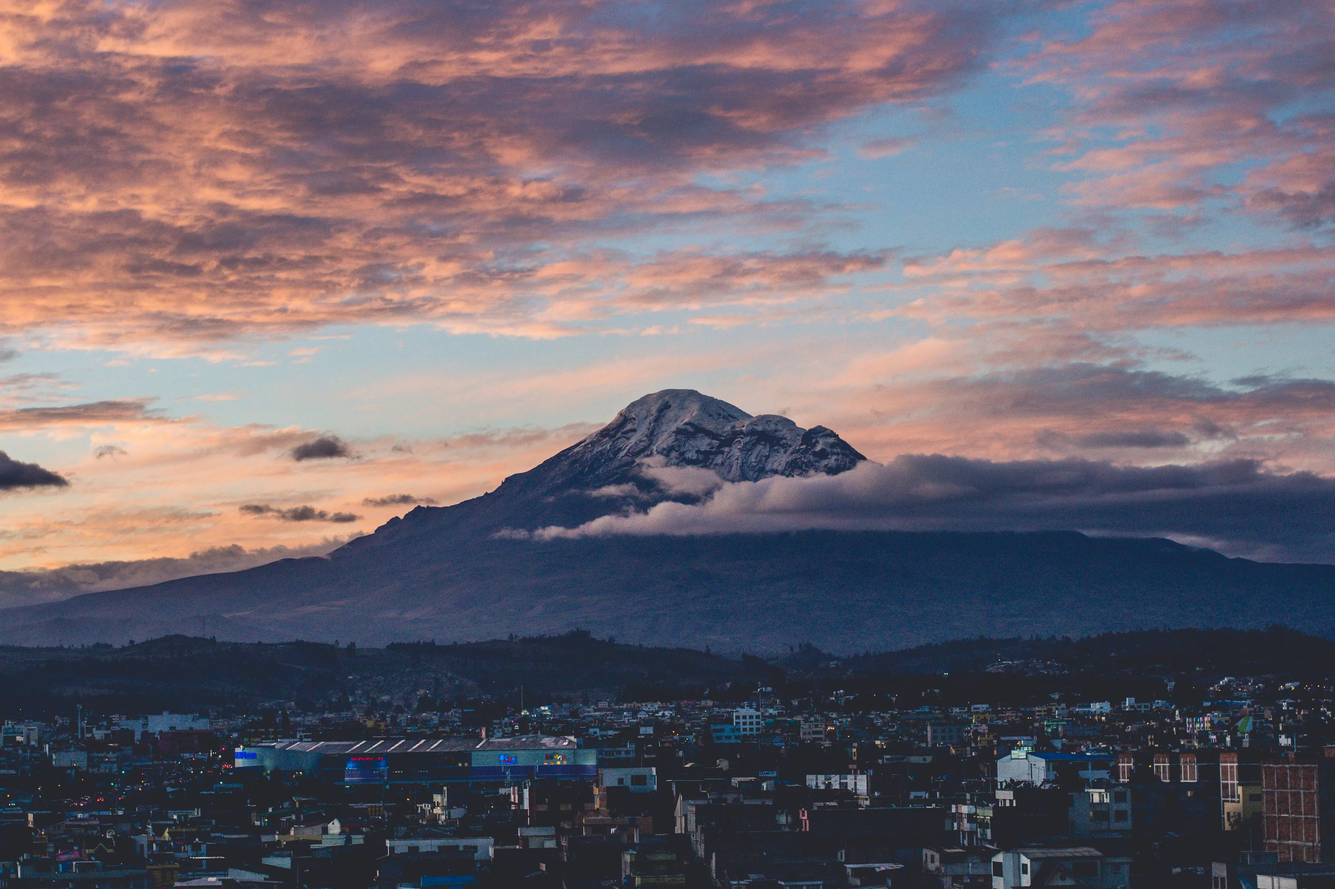
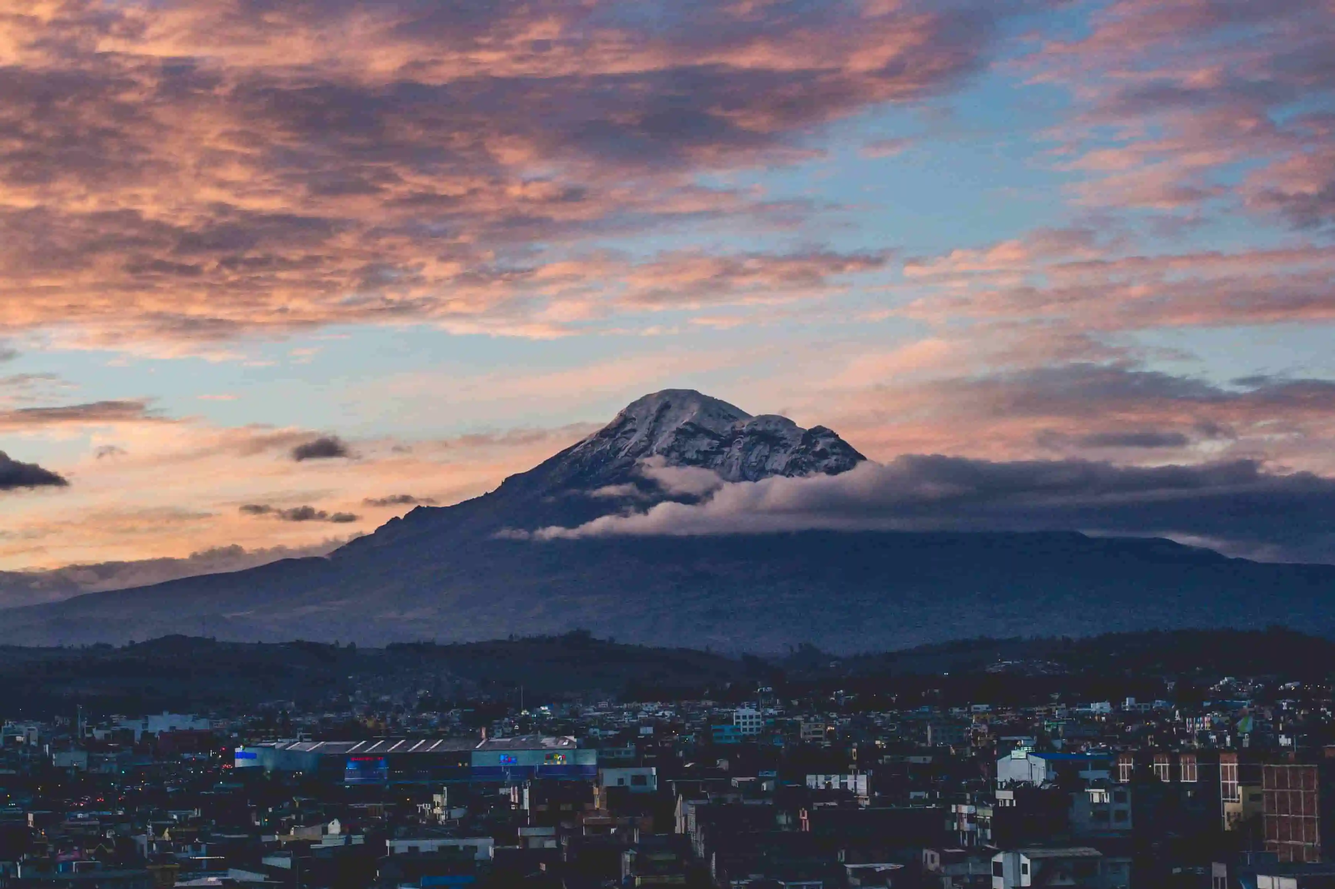
place02

diff --git a/place.html b/place.html
@@ -1,81 +1,353 @@
 <!DOCTYPE html>
 <html lang="en">
+
 <head>
   <meta charset="UTF-8">
   <meta name="viewport" content="width=device-width, initial-scale=1.0">
-  <title>Ecuador - Place</title>
-  <meta name="description" content="A responsive page about Ecuador including location information and weather.">
+
+  <title>Ecuador – WDD 131 – Gabriel Alexander Silva Enriquez</title>
+
+  <meta name="description" content="A profile page about Ecuador for WDD 131 – Dynamic Web Fundamentals, by Gabriel Alexander Silva Enriquez. Includes country data and static weather information with a JavaScript-calculated wind chill.">
+
   <meta name="author" content="Gabriel Alexander Silva Enriquez">
 
-  <link rel="stylesheet" href="styles/place.css">
+  <link rel="preconnect" href="https://fonts.googleapis.com">
+  <link rel="preconnect" href="https://fonts.gstatic.com" crossorigin>
 
-  <script src="scripts/place.js" defer></script>
+  <link href="https://fonts.googleapis.com/css2?family=Playfair+Display:wght@700;800&family=Work+Sans:wght@400;600&display=swap" rel="stylesheet">
+
+  <style>
+    :root {
+      --primary-color: #003893;
+      --secondary-color: #f9d616;
+      --accent-color: #ce1126;
+      --background-color: #ffffff;
+      --card-background: rgba(255, 255, 255, 0.95);
+      --text-color: #222222;
+    }
+
+    * {
+      box-sizing: border-box;
+    }
+
+    body {
+      margin: 0;
+      font-family: "Work Sans", sans-serif;
+      color: var(--text-color);
+      background-color: var(--background-color);
+    }
+
+    .place-header {
+      background-color: var(--primary-color);
+      color: white;
+      text-align: center;
+      padding: 1rem;
+    }
+
+    .place-header h1 {
+      margin: 0;
+      font-family: "Playfair Display", serif;
+      font-size: 2rem;
+    }
+
+    .flag-stripe {
+      height: 8px;
+      background: linear-gradient(
+        to bottom,
+        var(--secondary-color) 0 50%,
+        var(--accent-color) 50% 100%
+      );
+    }
+
+    main {
+      max-width: 1200px;
+      margin: 0 auto;
+    }
+
+    .hero-wrap {
+      position: relative;
+    }
+
+    .hero-image {
+      display: block;
+      width: 100%;
+      height: auto;
+    }
+
+    .card {
+      margin: 1rem;
+      padding: 1rem;
+      background-color: var(--card-background);
+      border: 1px solid #ddd;
+      border-radius: 8px;
+    }
+
+    .card h2 {
+      margin-top: 0;
+      padding: 0.7rem;
+      background-color: var(--primary-color);
+      color: white;
+      text-align: center;
+      font-family: "Playfair Display", serif;
+    }
+
+    dl {
+      margin: 0;
+    }
+
+    dl div {
+      display: grid;
+      grid-template-columns: 1fr 1fr;
+      margin: 0.5rem 0;
+    }
+
+    dt {
+      font-weight: 600;
+      text-align: right;
+      padding-right: 1rem;
+    }
+
+    dd {
+      margin: 0;
+    }
+
+    .weather-icon-mobile {
+      display: block;
+      width: 60px;
+      height: 60px;
+      margin: 1rem auto;
+    }
+
+    footer {
+      background-color: var(--primary-color);
+      color: white;
+      text-align: center;
+      padding: 1rem;
+      margin-top: 1rem;
+    }
+
+    footer p {
+      margin: 0.5rem;
+    }
+
+    /* Large screen layout */
+    @media screen and (min-width: 700px) {
+
+      .place-header h1 {
+        font-size: 3rem;
+      }
+
+      .hero-image {
+        min-height: 650px;
+        object-fit: cover;
+      }
+
+      .data-card,
+      .weather-card {
+        position: absolute;
+        width: 300px;
+        margin: 0;
+        background-color: rgba(255, 255, 255, 0.92);
+        box-shadow: 0 3px 10px rgba(0, 0, 0, 0.25);
+      }
+
+      .data-card {
+        top: 3rem;
+        left: 2rem;
+      }
+
+      .weather-card {
+        bottom: 3rem;
+        right: 2rem;
+      }
+
+      .weather-icon-mobile {
+        display: none;
+      }
+
+      .weather-card h2::after {
+        content: " ⛅";
+        margin-left: 0.5rem;
+      }
+    }
+
+    /* Small screen layout */
+    @media screen and (max-width: 699px) {
+
+      .hero-image {
+        width: 100%;
+        height: auto;
+      }
+
+      .data-card,
+      .weather-card {
+        position: static;
+      }
+    }
+  </style>
+
+  <script defer>
+    // Static weather values for this assignment.
+    const temperature = 10;
+    const windSpeed = 5;
+
+    // Calculate wind chill using the Celsius formula.
+    function calculateWindChill(temperature, windSpeed) {
+      return 13.12 + 0.6215 * temperature - 11.37 * Math.pow(windSpeed, 0.16) + 0.3965 * temperature * Math.pow(windSpeed, 0.16);
+    }
+
+    // Display wind chill only when the conditions are valid.
+    const windChillElement = document.getElementById("wind-chill");
+
+    if (temperature <= 10 && windSpeed > 4.8) {
+      windChillElement.textContent =
+        calculateWindChill(temperature, windSpeed).toFixed(1) + " °C";
+    } else {
+      windChillElement.textContent = "N/A";
+    }
+
+    // Display the current year.
+    const currentYear = document.getElementById("currentyear");
+    currentYear.textContent = new Date().getFullYear();
+
+    // Display the document's last modified date.
+    const lastModified = document.getElementById("lastModified");
+    lastModified.textContent = "Last Modified: " + document.lastModified;
+  </script>
+
 </head>
 
 <body>
 
-  <header>
+  <header class="place-header">
     <h1>Ecuador</h1>
   </header>
 
+  <div class="flag-stripe" aria-hidden="true"></div>
+
   <main>
 
-    <picture class="hero">
-      <source media="(max-width: 600px)" srcset="images/ecuador-small.webp">
-      <source media="(max-width: 1000px)" srcset="images/ecuador-medium.webp">
+    <div class="hero-wrap">
 
-      <img
-        src="images/ecuador-large.webp"
-        srcset="images/ecuador-small.webp 600w,
-                images/ecuador-medium.webp 1000w,
-                images/ecuador-large.webp 1600w"
-        sizes="100vw"
-        alt="Landscape of Ecuador">
-    </picture>
+      <picture>
+        <source
+          media="(max-width: 699px)"
+          srcset="images/ecuador-small.webp">
 
-    <section class="data">
-      <h2>Data</h2>
+        <img
+          class="hero-image"
+          src="images/ecuador-large.webp"
+          srcset="images/ecuador-small.webp 600w,
+                  images/ecuador-large.webp 1200w"
+          sizes="100vw"
+          alt="Scenic view of the Ecuadorian Andes"
+          width="1200"
+          height="800">
+      </picture>
 
-      <div class="data-content">
-        <p><strong>Area:</strong> 283,561 km²</p>
-        <p><strong>Population:</strong> 18 million</p>
-        <p><strong>Capital:</strong> Quito</p>
-        <p><strong>Language:</strong> Spanish</p>
-        <p><strong>Currency:</strong> US Dollar</p>
-        <p><strong>Time Zone:</strong> UTC-5</p>
-        <p><strong>Calling Code:</strong> +593</p>
-      </div>
-    </section>
+      <section class="card data-card">
 
-    <section class="weather">
-      <h2>Weather</h2>
+        <h2>Data</h2>
 
-      <img
-        class="weather-icon-mobile"
-        src="images/partly-cloudy.svg"
-        alt="Partly cloudy weather">
+        <dl>
 
-      <div class="weather-content">
-        <p><strong>Temperature:</strong> 8 °C</p>
-        <p><strong>Conditions:</strong> Partly Cloudy</p>
-        <p><strong>Wind:</strong> 10 km/h</p>
-        <p>
-          <strong>Wind Chill:</strong>
-          <span id="windchill">N/A</span>
-        </p>
-      </div>
-    </section>
+          <div>
+            <dt>Area:</dt>
+            <dd>283,561 sq km</dd>
+          </div>
+
+          <div>
+            <dt>Population:</dt>
+            <dd>18,190,000</dd>
+          </div>
+
+          <div>
+            <dt>Capital:</dt>
+            <dd>Quito</dd>
+          </div>
+
+          <div>
+            <dt>Languages:</dt>
+            <dd>Spanish, Kichwa</dd>
+          </div>
+
+          <div>
+            <dt>Currency:</dt>
+            <dd>US Dollar</dd>
+          </div>
+
+          <div>
+            <dt>Time Zone:</dt>
+            <dd>UTC-5</dd>
+          </div>
+
+          <div>
+            <dt>Calling Code:</dt>
+            <dd>+593</dd>
+          </div>
+
+          <div>
+            <dt>Internet TLD:</dt>
+            <dd>.ec</dd>
+          </div>
+
+        </dl>
+
+      </section>
+
+      <section class="card weather-card">
+
+        <h2>Weather</h2>
+
+        <img
+          class="weather-icon-mobile"
+          src="images/party-cloudy.svg"
+          alt="Partly cloudy weather icon"
+          width="60"
+          height="60">
+
+        <dl>
+
+          <div>
+            <dt>Temperature:</dt>
+            <dd>10 &deg;C</dd>
+          </div>
+
+          <div>
+            <dt>Conditions:</dt>
+            <dd>Partly Cloudy</dd>
+          </div>
+
+          <div>
+            <dt>Wind:</dt>
+            <dd>5 km/h</dd>
+          </div>
+
+          <div>
+            <dt>Wind Chill:</dt>
+            <dd id="wind-chill">--</dd>
+          </div>
+
+        </dl>
+
+      </section>
+
+    </div>
 
   </main>
 
   <footer>
+
     <p>
-      &copy; <span id="currentyear"></span>
-      Gabriel Alexander Silva Enriquez, Ecuador
+      &copy;
+      <span id="currentyear"></span>
+      &#127811; Gabriel Alexander Silva Enriquez &#127811; Ecuador
     </p>
 
     <p id="lastModified"></p>
+
   </footer>
 
 </body>
+
 </html>
